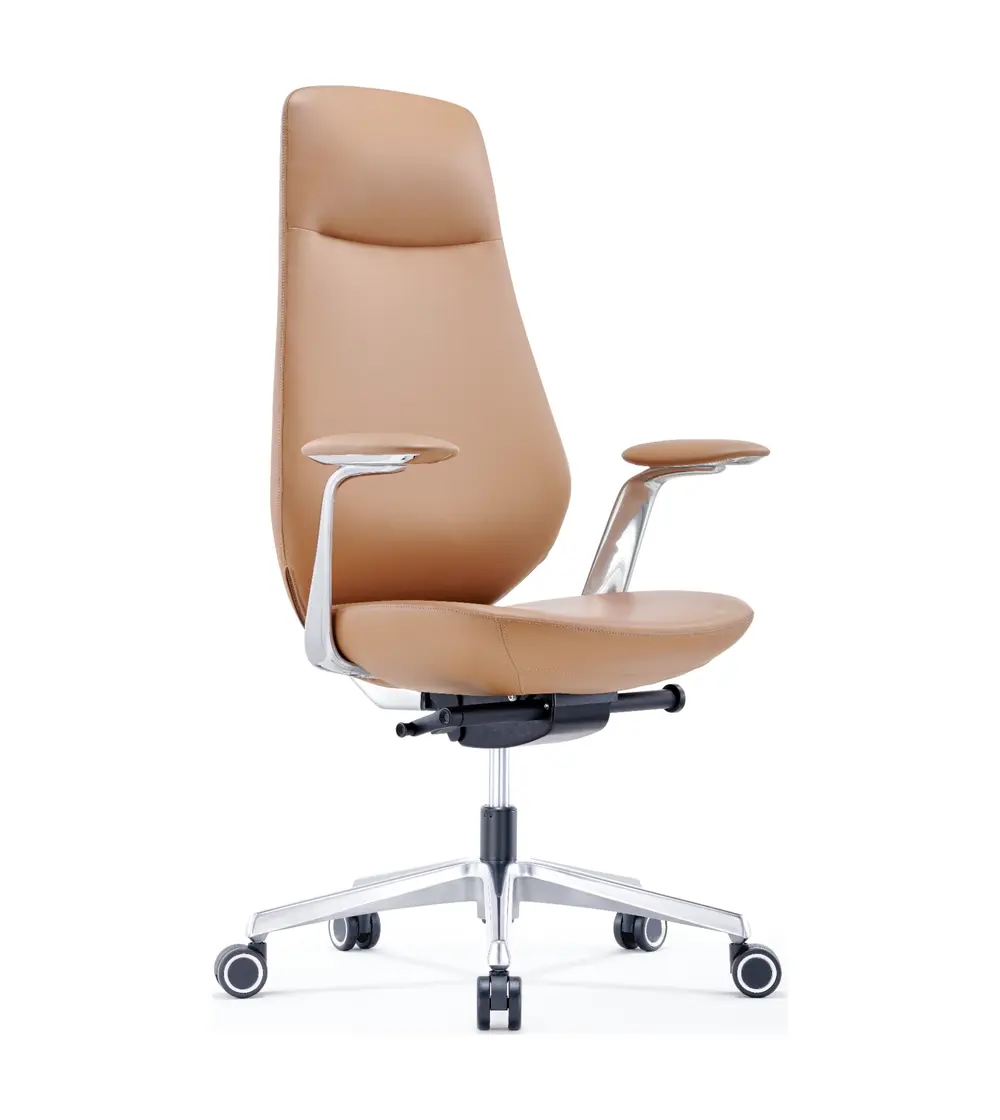
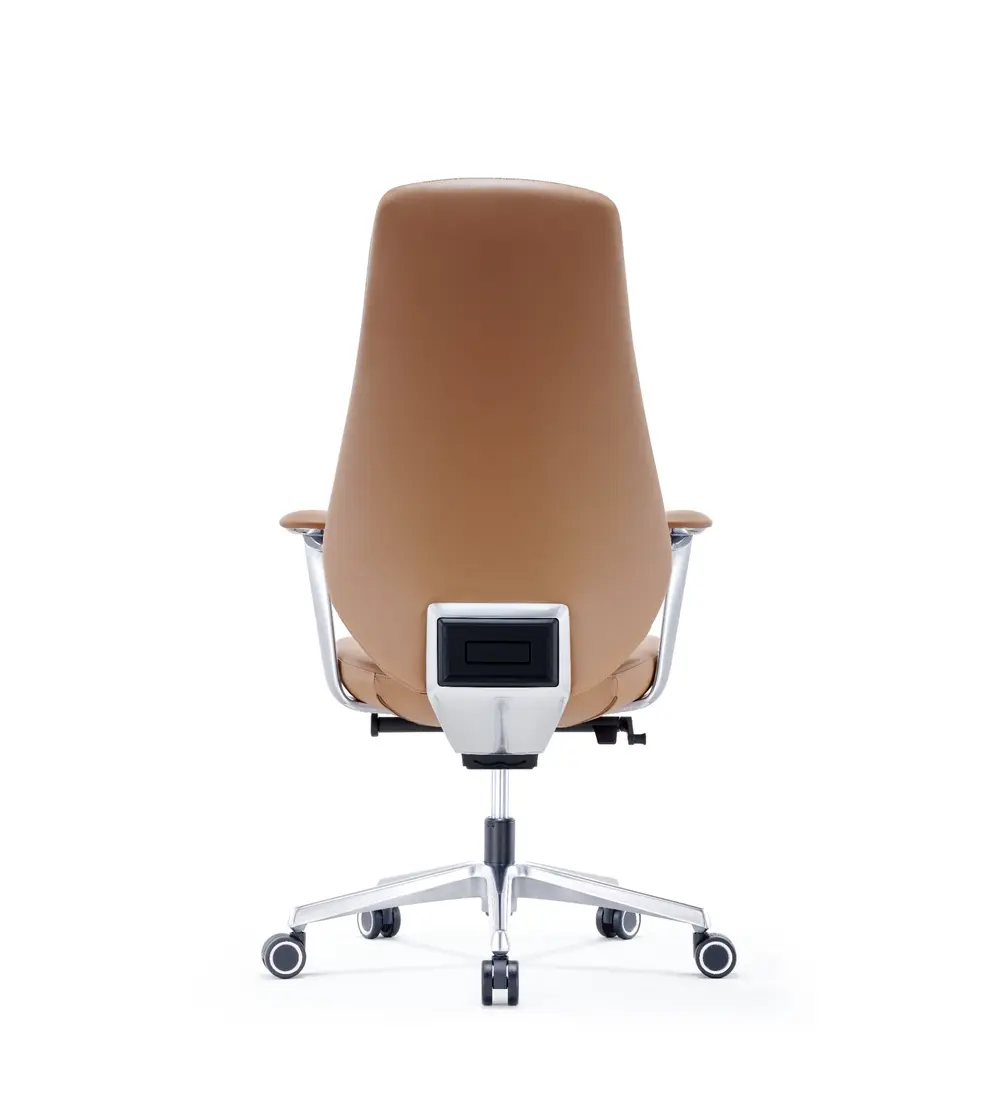
Add A207 leather executive chair

Changed region(s): [[0.217, 0.0625, 0.806, 0.9375]]

diff --git a/products/a207-microfiber-leather-executive-office-chair.html b/products/a207-microfiber-leather-executive-office-chair.html
@@ -1,0 +1,195 @@
+<!doctype html>
+<html lang="en">
+<head>
+  <meta charset="utf-8">
+  <meta name="viewport" content="width=device-width, initial-scale=1">
+  <title>A207 Microfiber Leather Executive Office Chair | HUANGSI</title>
+  <meta name="description" content="Explore the HUANGSI A207 executive chair with microfiber leather, molded foam, an F013 mechanism, 2D sliding aluminum armrests and adjustable headrest.">
+  <link rel="canonical" href="https://huangsifurniture.com/products/a207-microfiber-leather-executive-office-chair">
+  <meta property="og:type" content="product">
+  <meta property="og:site_name" content="HUANGSI">
+  <meta property="og:title" content="A207 Microfiber Leather Executive Office Chair | HUANGSI">
+  <meta property="og:description" content="Six complete A207 views with molded-foam comfort, an F013 multifunction mechanism and custom aluminum-alloy components.">
+  <meta property="og:url" content="https://huangsifurniture.com/products/a207-microfiber-leather-executive-office-chair">
+  <meta property="og:image" content="https://huangsifurniture.com/assets/images/a207-chair/a207-rear.webp">
+  <meta name="twitter:card" content="summary_large_image">
+  <link rel="preload" as="image" href="/assets/images/a207-chair/a207-rear.webp" fetchpriority="high">
+  <link rel="icon" href="/favicon.svg" type="image/svg+xml">
+  <link rel="stylesheet" href="/assets/css/styles.css">
+  <link rel="stylesheet" href="/assets/css/m15-chair-detail.css">
+  <link rel="stylesheet" href="/assets/css/a207-chair-detail.css">
+  <script defer src="/assets/js/main.js"></script>
+  <script defer src="/assets/js/m15-chair-detail.js"></script>
+  <script type="application/ld+json">
+  {
+    "@context":"https://schema.org",
+    "@type":"Product",
+    "name":"A207 Microfiber Leather Executive Office Chair",
+    "sku":"A207",
+    "description":"An executive office chair with microfiber leather, molded-foam cushioning, an F013 multifunction mechanism, custom 2D sliding aluminum-alloy armrests and an adjustable headrest.",
+    "brand":{"@type":"Brand","name":"HUANGSI"},
+    "manufacturer":{"@type":"Organization","name":"Foshan Huangsi Furniture Co., Ltd."},
+    "category":"Leather Office Chairs",
+    "color":"Orange",
+    "material":"Microfiber leather and aluminum alloy",
+    "url":"https://huangsifurniture.com/products/a207-microfiber-leather-executive-office-chair",
+    "image":[
+      "https://huangsifurniture.com/assets/images/a207-chair/a207-rear.webp",
+      "https://huangsifurniture.com/assets/images/a207-chair/a207-front.webp",
+      "https://huangsifurniture.com/assets/images/a207-chair/a207-right-side.webp",
+      "https://huangsifurniture.com/assets/images/a207-chair/a207-rear-angle.webp",
+      "https://huangsifurniture.com/assets/images/a207-chair/a207-left-side.webp",
+      "https://huangsifurniture.com/assets/images/a207-chair/a207-front-angle.webp"
+    ],
+    "additionalProperty":[
+      {"@type":"PropertyValue","name":"Upholstery","value":"Gray or orange microfiber leather"},
+      {"@type":"PropertyValue","name":"Backrest padding","value":"Molded foam"},
+      {"@type":"PropertyValue","name":"Seat padding","value":"Molded foam"},
+      {"@type":"PropertyValue","name":"Mechanism","value":"F013 multifunction mechanism"},
+      {"@type":"PropertyValue","name":"Gas lift","value":"D65 standard gas lift"},
+      {"@type":"PropertyValue","name":"Armrests","value":"Custom 2D sliding aluminum-alloy armrests"},
+      {"@type":"PropertyValue","name":"Base","value":"T6 × 350 mm aluminum-alloy five-star base"},
+      {"@type":"PropertyValue","name":"Casters","value":"60 × 25 mm shock-absorbing casters with electroplated black trim"},
+      {"@type":"PropertyValue","name":"Accessory","value":"Height-adjustable headrest"},
+      {"@type":"PropertyValue","name":"Carton","value":"90 × 66 × 36 cm"}
+    ]
+  }
+  </script>
+  <script type="application/ld+json">
+  {
+    "@context":"https://schema.org",
+    "@type":"BreadcrumbList",
+    "itemListElement":[
+      {"@type":"ListItem","position":1,"name":"Home","item":"https://huangsifurniture.com/"},
+      {"@type":"ListItem","position":2,"name":"Leather Office Chairs","item":"https://huangsifurniture.com/products/leather-office-chair"},
+      {"@type":"ListItem","position":3,"name":"A207 Microfiber Leather Executive Office Chair","item":"https://huangsifurniture.com/products/a207-microfiber-leather-executive-office-chair"}
+    ]
+  }
+  </script>
+</head>
+<body class="m15-page a207-page">
+  <div class="topbar">
+    <div class="container">
+      <span>Factory supplier for bulk office furniture projects</span>
+      <span>OEM / ODM · Commercial Projects · Global Export · RFQ</span>
+    </div>
+  </div>
+
+  <header class="site-header">
+    <div class="container nav">
+      <a class="brand" href="/" aria-label="HUANGSI home"><img src="/assets/images/logo-huangsi.png" width="1105" height="170" alt="HUANGSI logo"></a>
+      <button class="mobile-toggle" type="button" aria-label="Open navigation" aria-controls="primary-navigation" aria-expanded="false">☰</button>
+      <nav class="nav-links" id="primary-navigation" aria-label="Primary navigation">
+        <a href="/commercial-office-furniture-manufacturer">Office Furniture</a>
+        <a href="/products/office-workstation">Workstations</a>
+        <a href="/products/mesh-office-chairs" aria-current="page">Office Chairs</a>
+        <a href="/products/executive-office-desk">Office Desks</a>
+        <a href="/applications/reception-area-furniture">Reception</a>
+        <a href="/oem-manufacturing">OEM</a>
+        <a href="/catalog">Catalog</a>
+        <a class="btn" href="/contact?product=A207">Request Quote</a>
+      </nav>
+    </div>
+  </header>
+
+  <main>
+    <section class="m15-product" id="images">
+      <nav class="m15-breadcrumbs" aria-label="Breadcrumb">
+        <a href="/">Home</a><span>/</span><a href="/products/leather-office-chair">Leather Office Chairs</a><span>/</span><span>A207</span>
+      </nav>
+      <div class="m15-product-grid">
+        <div class="m15-product-copy">
+          <span class="m15-eyebrow">Executive Leather Office Chairs</span>
+          <h1>A207 Microfiber Leather Executive Office Chair</h1>
+          <p class="m15-byline">by HUANGSI</p>
+          <p class="m15-intro">A refined executive chair combining microfiber leather, molded-foam comfort, an adjustable headrest and custom aluminum-alloy components.</p>
+          <div class="a207-configurations" aria-label="A207 key configurations">
+            <span>Microfiber leather</span><span>Molded foam</span><span>F013 mechanism</span><span>2D sliding armrests</span><span>Adjustable headrest</span>
+          </div>
+          <div class="m15-actions">
+            <a class="m15-button m15-button--primary" href="/contact?product=A207%20Gaming-Inspired%20Dual-Back%20Ergonomic%20Chair">Request project quote</a>
+            <a class="m15-button" href="#specifications">View specifications</a>
+          </div>
+          <p class="m15-note">Images show the orange reference configuration. Gray upholstery is also available; final colors and specifications are confirmed with the quotation and approved sample.</p>
+        </div>
+        <div class="m15-gallery" data-m15-gallery aria-label="A207 chair product image gallery">
+          <div class="m15-track" data-gallery-track tabindex="0" aria-live="polite">
+            <figure class="m15-slide" data-gallery-slide><img src="/assets/images/a207-chair/a207-rear.webp" width="1400" height="900" alt="A207 orange microfiber leather executive office chair, rear view" fetchpriority="high"></figure>
+            <figure class="m15-slide" data-gallery-slide><img src="/assets/images/a207-chair/a207-front.webp" width="1400" height="900" alt="A207 orange microfiber leather executive office chair, front view" loading="lazy"></figure>
+            <figure class="m15-slide" data-gallery-slide><img src="/assets/images/a207-chair/a207-right-side.webp" width="1400" height="900" alt="A207 orange microfiber leather executive office chair, right-side view" loading="lazy"></figure>
+            <figure class="m15-slide" data-gallery-slide><img src="/assets/images/a207-chair/a207-rear-angle.webp" width="1400" height="900" alt="A207 orange microfiber leather executive office chair, rear three-quarter view" loading="lazy"></figure>
+            <figure class="m15-slide" data-gallery-slide><img src="/assets/images/a207-chair/a207-left-side.webp" width="1400" height="900" alt="A207 orange microfiber leather executive office chair, left-side view" loading="lazy"></figure>
+            <figure class="m15-slide" data-gallery-slide><img src="/assets/images/a207-chair/a207-front-angle.webp" width="1400" height="900" alt="A207 orange microfiber leather executive office chair, front three-quarter view" loading="lazy"></figure>
+          </div>
+          <div class="m15-gallery-controls">
+            <div class="m15-gallery-arrows">
+              <button type="button" data-gallery-prev aria-label="Previous product image">←</button>
+              <button type="button" data-gallery-next aria-label="Next product image">→</button>
+            </div>
+            <span class="m15-count"><b data-gallery-current>01</b> / <span>06</span></span>
+            <div class="m15-dots" aria-label="Choose product image">
+              <button type="button" data-gallery-dot="0" aria-label="Show image 1" aria-current="true"></button>
+              <button type="button" data-gallery-dot="1" aria-label="Show image 2"></button>
+              <button type="button" data-gallery-dot="2" aria-label="Show image 3"></button>
+              <button type="button" data-gallery-dot="3" aria-label="Show image 4"></button>
+              <button type="button" data-gallery-dot="4" aria-label="Show image 5"></button>
+              <button type="button" data-gallery-dot="5" aria-label="Show image 6"></button>
+            </div>
+          </div>
+          <div class="m15-thumbnails" aria-label="Product image thumbnails">
+            <button type="button" data-gallery-thumb="0" aria-current="true"><img src="/assets/images/a207-chair/a207-rear.webp" width="1400" height="900" alt="A207 rear-view thumbnail"></button>
+            <button type="button" data-gallery-thumb="1"><img src="/assets/images/a207-chair/a207-front.webp" width="1400" height="900" alt="A207 front-view thumbnail"></button>
+            <button type="button" data-gallery-thumb="2"><img src="/assets/images/a207-chair/a207-right-side.webp" width="1400" height="900" alt="A207 right-side thumbnail"></button>
+            <button type="button" data-gallery-thumb="3"><img src="/assets/images/a207-chair/a207-rear-angle.webp" width="1400" height="900" alt="A207 rear-angle thumbnail"></button>
+            <button type="button" data-gallery-thumb="4"><img src="/assets/images/a207-chair/a207-left-side.webp" width="1400" height="900" alt="A207 left-side thumbnail"></button>
+            <button type="button" data-gallery-thumb="5"><img src="/assets/images/a207-chair/a207-front-angle.webp" width="1400" height="900" alt="A207 front-angle thumbnail"></button>
+          </div>
+        </div>
+      </div>
+    </section>
+    <nav class="m15-anchor-nav" aria-label="Product page sections">
+      <a href="#images">Images</a><a href="#specifications">Specifications</a><a href="#materials">Materials</a><a href="/contact?product=A207">Inquiry</a>
+    </nav>
+    <section class="m15-overview" id="materials">
+      <div class="m15-content">
+        <div><span class="m15-eyebrow">Executive comfort</span><h2>Clean tailoring with commercial-grade controls.</h2></div>
+        <p>The A207 pairs smooth microfiber leather and supportive molded foam with an F013 multifunction mechanism, precise 2D armrest movement and a strong aluminum-alloy base.</p>
+      </div>
+      <div class="m15-feature-grid">
+        <article><span>01</span><h3>Molded-foam support</h3><p>Shaped foam in the backrest and seat provides consistent support and a tailored profile.</p></article>
+        <article><span>02</span><h3>Adjustable fit</h3><p>The height-adjustable headrest and custom 2D sliding armrests support individual positioning.</p></article>
+        <article><span>03</span><h3>Aluminum construction</h3><p>Custom armrest structures and a T6 aluminum-alloy five-star base create a polished executive finish.</p></article>
+      </div>
+    </section>
+    <section class="m15-specs" id="specifications">
+      <div class="m15-specs-heading"><span class="m15-eyebrow">A207 specification</span><h2>Materials, controls and packing data.</h2><p>Final upholstery color, component configuration and packing details are confirmed with the quotation and approved sample.</p></div>
+      <div class="m15-spec-table" role="table" aria-label="A207 chair specifications">
+        <div role="row"><b role="cell">Upholstery</b><span role="cell">Gray or orange microfiber leather</span></div>
+        <div role="row"><b role="cell">Backrest padding</b><span role="cell">Molded foam</span></div>
+        <div role="row"><b role="cell">Seat padding</b><span role="cell">Molded foam</span></div>
+        <div role="row"><b role="cell">Mechanism</b><span role="cell">F013 multifunction mechanism</span></div>
+        <div role="row"><b role="cell">Gas lift</b><span role="cell">D65 standard gas lift</span></div>
+        <div role="row"><b role="cell">Armrests</b><span role="cell">Custom aluminum-alloy 2D sliding armrests</span></div>
+        <div role="row"><b role="cell">Base</b><span role="cell">T6 × 350 mm aluminum-alloy five-star base</span></div>
+        <div role="row"><b role="cell">Casters</b><span role="cell">60 × 25 mm shock-absorbing casters with electroplated black trim</span></div>
+        <div role="row"><b role="cell">Accessory</b><span role="cell">Height-adjustable headrest</span></div>
+        <div role="row"><b role="cell">Carton</b><span role="cell">90 × 66 × 36 cm</span></div>
+      </div>
+    </section>
+    <section class="m15-cta">
+      <div><span class="m15-eyebrow">Commercial project supply</span><h2>Specify A207 for executive offices and boardrooms.</h2></div>
+      <div><p>Send the quantity, destination, upholstery color and project timeline for configuration review and export quotation.</p><a class="m15-button m15-button--light" href="/contact?product=A207%20Gaming-Inspired%20Dual-Back%20Ergonomic%20Chair">Request A207 details</a></div>
+    </section>
+  </main>
+
+  <footer class="footer">
+    <div class="container footer-grid">
+      <div><a class="brand" href="/"><img src="/assets/images/logo-huangsi.png" width="1105" height="170" alt="HUANGSI logo"></a><p>Commercial office furniture manufacturer for workstations, office chairs, desks, storage, acoustic solutions and OEM projects.</p><div class="badge-row"><span class="badge">Bulk Export</span><span class="badge">OEM / ODM</span><span class="badge">Project Supply</span></div></div>
+      <div><h4>Products</h4><a href="/products/office-workstation">Office Workstations</a><a href="/products/mesh-office-chairs">Mesh Office Chairs</a><a href="/products/leather-office-chair">Leather Office Chairs</a><a href="/products/executive-office-desk">Executive Desks</a></div>
+      <div><h4>Solutions</h4><a href="/applications/corporate-office-projects">Corporate Offices</a><a href="/applications/co-working-space-furniture">Co-working Spaces</a><a href="/products/acoustic-wall-panels">Acoustic Panels</a><a href="/oem-manufacturing">OEM Manufacturing</a></div>
+      <div><h4>Contact</h4><a href="mailto:huangsifurniture@gmail.com">huangsifurniture@gmail.com</a><a href="tel:+8613928602558">+8613928602558</a><a href="/contact">Send RFQ</a><a href="/catalog">Request Catalog</a></div>
+    </div>
+    <div class="container footer-bottom"><span>© 2026 Foshan Huangsi Furniture Co., Ltd. All rights reserved.</span><span class="footer-legal"><a href="/privacy">Privacy</a> · <a href="/terms">Terms</a> · <a href="/sitemap.xml">Sitemap</a></span></div>
+  </footer>
+</body>
+</html>

diff --git a/products/leather-office-chair.html b/products/leather-office-chair.html
@@ -25,7 +25,7 @@
     "description":"A collection of 15 executive leather office chair models for commercial projects, bulk orders and OEM customization.",
     "isPartOf":{"@type":"WebSite","name":"HUANGSI","url":"https://huangsifurniture.com/"},
     "mainEntity":{"@type":"ItemList","numberOfItems":15,"itemListElement":[
-        {"@type":"ListItem","position":1,"name":"38532 Slim-Profile Leather Office Chair"},
+        {"@type":"ListItem","position":1,"name":"A207 Microfiber Leather Executive Office Chair","url":"https://huangsifurniture.com/products/a207-microfiber-leather-executive-office-chair"},
         {"@type":"ListItem","position":2,"name":"A209-1 Executive Leather Office Chair"},
         {"@type":"ListItem","position":3,"name":"32758 Executive Leather Office Chair"},
         {"@type":"ListItem","position":4,"name":"1676 Reclining Executive Leather Chair"},
@@ -102,9 +102,9 @@
         </div>
 
         <div class="mesh-chair-grid" id="mesh-chair-grid">
-          <a class="mesh-chair-card mesh-chair-card--link" data-name="38532" data-order="1" href="/contact?product=38532%20Slim-Profile%20Leather%20Office%20Chair" aria-label="Request 38532 leather office chair details">
-            <div class="mesh-chair-card__media"><span class="mesh-chair-card__tag">CUSTOMIZE</span><img src="/assets/images/leather-chair-collection/38532.webp" width="1000" height="1120" alt="38532 camel slim-profile executive leather office chair" fetchpriority="high"></div>
-            <div class="mesh-chair-card__body"><span class="mesh-chair-card__meta">HUANGSI · 38532</span><h2>38532 Slim-Profile Leather Office Chair</h2><span class="mesh-chair-card__link">Request details <span>→</span></span></div>
+          <a class="mesh-chair-card mesh-chair-card--link" data-name="A207" data-order="1" href="/products/a207-microfiber-leather-executive-office-chair" aria-label="View A207 microfiber leather executive office chair">
+            <div class="mesh-chair-card__media"><span class="mesh-chair-card__tag">CUSTOMIZE</span><img src="/assets/images/leather-chair-collection/38532.webp" width="1000" height="1120" alt="A207 orange microfiber leather executive office chair, rear view" fetchpriority="high"></div>
+            <div class="mesh-chair-card__body"><span class="mesh-chair-card__meta">HUANGSI · A207</span><h2>A207 Microfiber Leather Executive Office Chair</h2><span class="mesh-chair-card__link">View details <span>→</span></span></div>
           </a>
           <a class="mesh-chair-card mesh-chair-card--link" data-name="A209-1" data-order="2" href="/contact?product=A209-1%20Executive%20Leather%20Office%20Chair" aria-label="Request A209-1 leather office chair details">
             <div class="mesh-chair-card__media"><span class="mesh-chair-card__tag">CUSTOMIZE</span><img src="/assets/images/leather-chair-collection/a209-1.webp" width="1000" height="1120" alt="A209-1 burgundy high-back executive leather office chair" loading="lazy"></div>

diff --git a/assets/css/a207-chair-detail.css b/assets/css/a207-chair-detail.css
@@ -1,0 +1,32 @@
+.a207-page .m15-thumbnails {
+  grid-template-columns: repeat(6, minmax(72px, 1fr));
+  overflow-x: auto;
+  overscroll-behavior-x: contain;
+  scrollbar-color: #aeb7bc #edf0f1;
+  scrollbar-width: thin;
+}
+
+.a207-page .m15-product-copy h1 {
+  font-size: clamp(34px, 2.8vw, 50px);
+}
+
+.a207-configurations {
+  display: flex;
+  flex-wrap: wrap;
+  gap: 8px;
+  margin-top: 28px;
+}
+
+.a207-configurations span {
+  padding: 8px 11px;
+  border: 1px solid #cfd5d8;
+  border-radius: 999px;
+  color: #536068;
+  font-size: 11px;
+}
+
+@media (max-width: 520px) {
+  .a207-page .m15-thumbnails {
+    grid-template-columns: repeat(6, 72px);
+  }
+}
